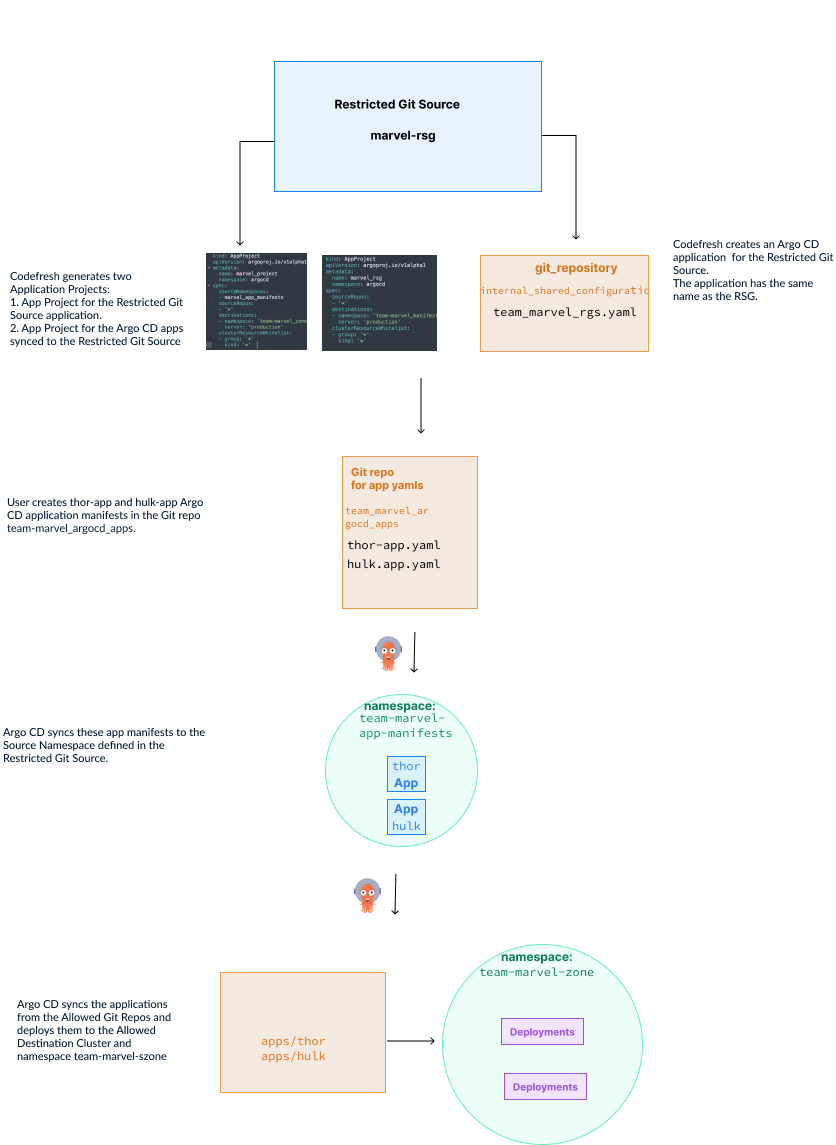
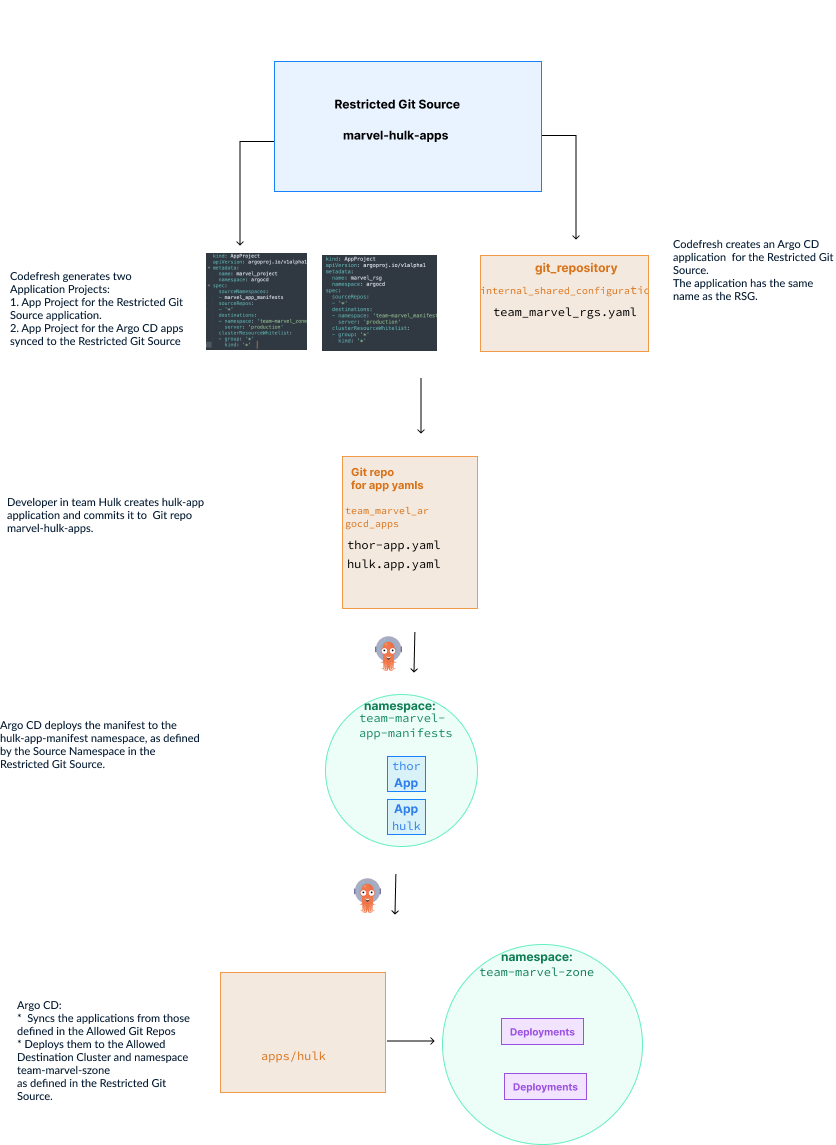
Update git source content
Added use case, edited overview

diff --git a/_docs/installation/gitops/git-sources.md b/_docs/installation/gitops/git-sources.md
@@ -5,32 +5,27 @@ group: installation
 toc: true
 ---
 
-A Git Source is a unique entity created for use with GitOps Runtimes in Codefresh. A Git Source connects to a Git repository within your organization, serving as an easy way to manage the deployment and configuration of Argo CD applications on clusters. Every resource in the Git repo referenced by the Git Source is always synced to the cluster. Codefresh manages the Git Source itself as an Argo CD application.  
+A Git Source is a unique entity created for use with GitOps Runtimes in Codefresh. A Git Source connects to a Git repository within your organization, serving as an easy way to manage the deployment and configuration of Argo CD applications on clusters. Every resource in the Git repo referenced by the Git Source is always synced to the cluster. Codefresh manages the Git Source itself as an Argo CD application. To understand how the Git Source interacts with GitOps Runtimes and applications, explore [Git Sources, GitOps Runtimes, Argo CD applications](#git-sources-gitops-runtimes-argo-cd-applications).
 
-For a deeper understanding of how Git Sources interact with GitOps Runtimes and Argo CD applications, explore [Git Source Concepts](#git-source-concepts).
 
-Codefresh supports two types of Git Sources: [Standard and Restricted Git Sources](#standard-and-restricted-git-sources):
+Argo CD applications can be synced to the namespace of your choice, instead of the Runtime's namespace, as is the default. 
+Codefresh removes the complexity from the manual configuration required to sync and manage application resources in different namespaces through the Restricted Git Source. 
 
-The Standard Git Source is the Git Source you would usually create to house application manifests.  
+Codefresh administrators can set up Restricted Git Sources with the Git repo, cluster and namespace definitions, and Codefresh manages the Argo CD applications synced to the Git Source, ensuring secure compliance without complex administrative overhead. See 
 
-For multi-tenancy organizations with multiple development teams creating and deploying applications for different customers on the same cluster, Restricted Git Sources are the answer. Argo CD uses Application Projects to control 
-With Restricted Git Sources, Codefresh removes the complexity of setting up Application Projects with the correct permissions. 
 Restricted Git Sources:
-Tailored control on which teams can create what applications and where
-Codefresh administrators can set up Restricted Git Sources with the precise constraints for each team. Codefresh automatcially creates the Application Project with the psettings and  The Restricted Git Sources enforces the creation and deployment requirements for the teams, ensuring user compliance without complex adminstrative overhead.
+* Are optimized for multi-tenant organizations where multiple development teams create and deploy applications for different customers on the same cluster 
+* Control which teams can create what applications and where
+
+See how the Restricted Git Source enforces secure deployment boundaries in [Use case: Restricted Git Source in multi-tenant environment](#use-case-restricted-git-source-in-multi-tenant-environment).
 
 
-Teams can focus on creating applications, while the  Restricted Git Source takes care of the deployments.
-Codefresh simplifies the process 
+[Standard and Restricted Git Sources](#standard-and-restricted-git-sources) explains the differences between the two types of Git Sources. You can create, edit, and delete both types Git Sources directly within the Codefresh UI. See [Git Source settings](#git-source-settings) and [Create a Git Source](#create-a-git-source).
 
 
 
-You can create, edit, and delete both types Git Sources directly within the Codefresh UI. See [Git Source settings](#git-source-settings) and [Create a Git Source](#create-a-git-source).
 
-Co
-
-
-## Git Source concepts
+## Git Sources, GitOps Runtimes, Argo CD applications
 
 Let's look at how the Git Source interacts with other entities such as GitOps Runtimes, Argo CD applications, and Application Projects.
 
@@ -100,7 +95,77 @@ If the Argo CD application is not synced to a Git Source:
 
 ### Git Sources & Application Projects
 
-## Use case: up Codefresh 
+## Use case: Restricted Git Source in multi-tenant environment
+The use case illustrates how the Restricted Git Source can handle secure application deployment in multi-tenant environments.
+
+### Scenario
+Multiple teams are engaged in creating applications for Marvel characters. Each team must be constrained to create the applications in the Git repos defined for them, and deploy the applications within assigned namespaces.
+
+There are three teams:
+* Hulk
+* Thor
+* 
+
+### Objective
+Use Codefresh's Restricted Git Sources to define and enforce restrictions.
+
+### Set up the Restricted Git Source
+Let's see how to achieve this for a single team, the Hulk team.
+
+1. **Create Git repo for the Hulk team**  
+  Create the Git repo where the developers in the Hulk can store their application manifests. Make sure to grant write permissions only for members of the Hulk team.  
+  Let's call the Git repo `marvel-hulk-apps`. 
+
+1. **Create destination namespace for deployment**
+  Create the namespace on the cluster to which Hulk applications can be deployed. Let's call it, `hulk-apps`.
+
+1. **Create a Restricted Git Source**
+  Create the Restricted Git Source for the Hulk team that will define the namespace to which to deploy application manifests, and the namespace to which to deploy the applications themselves.
+  For detailed descriptions of the settings, see [Git Source settings](#git-source-settings) in this article.
+
+  1. In the Codefresh UI, go to your GitOps Runtime for which to create Git Sources.
+  1. Click the **Git Sources** tab and click **Create Git Source**.
+  1. Define the following:
+    * **Name**: `hulk`
+    * **Type**: `Restricted`
+    * **Source**: `marvel-hulk-apps` (this is the Git repo linked to the Restricted Git Source where the Hulk team will store their application manifests)
+    * **Branch**: `main`
+    * **Path**: `.`
+  1. Leave the other settings empty, and click **Next**.
+  1. Specify the deployment settings: 
+    * **Source Namespace**: Define the namespace to which to deploy the application manifests. Because we want to enforce permissions, we will define `hulk-app-manifests` as the namespace. If the namespace does not exist, Codefresh automatically creates it.
+    * **Allowed Clusters & Namespaces**: Select the relevant cluster and namespace to which to deploy the applications. Let's define `hulk-apps` as the namespace.
+  1. Click **Create**.
+
+  You have now created the Restricted Git Source.
+  Codefresh creates the Application Projects with the required configurations to enforce the restrictions.  
+
+1. **Create an Argo CD application**
+  When you [create an Argo CD application]({{site.baseurl}}/docs/deployments/gitops/create-application/) in Codefresh, you are prompted to select the:
+    * GitOps Runtime for the application
+    * Git Source in which to store the application manifest, from among the Git Sources in the Runtime to which you have write permissions.
+  
+  The Restricted Git Source you select dictates which target clusters and namespaces are available for deployment. 
+  Codefresh enforces the limitations through both the UI and the Runtime to ensure that applications can’t deploy outside their set boundaries.
+
+Repeat this process to set up Restricted Git Sources for other teams.
+
+### How does the Restricted Git Source function?
+The diagram below is a visual representation of how a Restricted Git Source functions to deploy Argo CD applications synchronized to it.
+
+   {% include 
+	image.html 
+	lightbox="true" 
+	file="/images/runtime/git-source/restricted-git-source-flow.png" 
+	url="/images/runtime/git-source/restricted-git-source-flow.png" 
+	alt="Git Source tab in GitOps Runtime" 
+	caption="Git Source tab in GitOps Runtime"
+  max-width="60%" 
+%}
+
+
+
+
 
 ## Standard and Restricted Git Sources
 Codefresh allows you to create two types of Git Sources:
@@ -131,7 +196,7 @@ The most notable feature of the Restricted Git Source is its ability to control 
 **Features of Restricted Git Sources**  
 
 * Application Projects
-  All Argo CD applications synced to the same Restricted Git Source must belong to the same Application Project. Codefresh simplifies this process by automatically creating the Application Project for the Restricted Git Source. As a user, you do not have the option to manually select the Application Project to which your applications should be synced when working with Restricted Git Sources.
+  All Argo CD applications synced to the same Restricted Git Source must belong to the same Application Project. Codefresh simplifies this by automatically creating the Application Project for the Restricted Git Source. As a user, you do not have the option to manually select the Application Project to which your applications should belong to when working with Restricted Git Sources.
 
   Whenever you create a Restricted Git Source, Codefresh generates two Application Projects for the Git Source with the same name as the Restricted Git Source:  
   * Application Project for the Restricted Git Source application, with the suffix `restricted` added to the name
@@ -142,20 +207,9 @@ The most notable feature of the Restricted Git Source is its ability to control 
   The Git repository referenced by the Restricted Git Source can house only manifests of Argo CD applications, Application sets, and Application Projects.
 
 * Deployment destinations  
-  Applications synced to a Restricted Git Source can be deployed to destination clusters and namespaces defined by the Restricted Git Source.
+  You can define the  synced to a Restricted Git Source can be deployed to destination clusters and namespaces defined by the Restricted Git Source.
 
 
-The diagram below is a visual representation of how a Restricted Git Source functions in deploying Argo CD applications synchronized to it.
-
-   {% include 
-	image.html 
-	lightbox="true" 
-	file="/images/runtime/git-source/restricted-git-source-flow.png" 
-	url="/images/runtime/git-source/restricted-git-source-flow.png" 
-	alt="Git Source tab in GitOps Runtime" 
-	caption="Git Source tab in GitOps Runtime"
-  max-width="60%" 
-%}
 
 <!---
 
@@ -171,7 +225,6 @@ The table highlights the main differences between the two types of Git Sources.
 
 -->
 
-## 
 
 ## Git Source settings
 The table describes the settings you can define for Standard and Restricted Git Sources.
@@ -273,7 +326,7 @@ Delete a Git Source
 ### Example: Standard Git Source manifest
 TBD
 
-### Example: Restricted Git Source manifest
+### Example: Restricted Git Source app manifest
 Here's an example of the Restricted Git Source application manifest.
 
 {% highlight yaml %}
@@ -285,7 +338,7 @@ metadata:
     argocd.argoproj.io/tracking-id: in-cluster:csdp.codefresh.io/RestrictedGitSource:runtime/team-marvel
   labels:
     app.kubernetes.io/instance: in-cluster
-  name: team-marvel                       # name of the Git Source, also the name of the Git Source application and Application Project 
+  name: team-marvel     # taken from the name of the Git Source as the name of the Git Source application and Application Project 
   namespace: runtime
 spec:
   destinations:                             # destination clusters and namespaces allowed by the Application Project 
@@ -341,7 +394,7 @@ spec:
 ```
 
 
-### Example: Restricted Application Project for Restricted Git Source
+### Example: Application Project for Argo CD applications synced to Restricted Git Source
 Codefresh creates two Application Projects for a Restricted Git Source, one for the Restricted Git Source application itself, and the other for the applications synced to the Restricted Git Source.  
 
 Here's an example of the Application Project created for the Restricted Git Source application.
